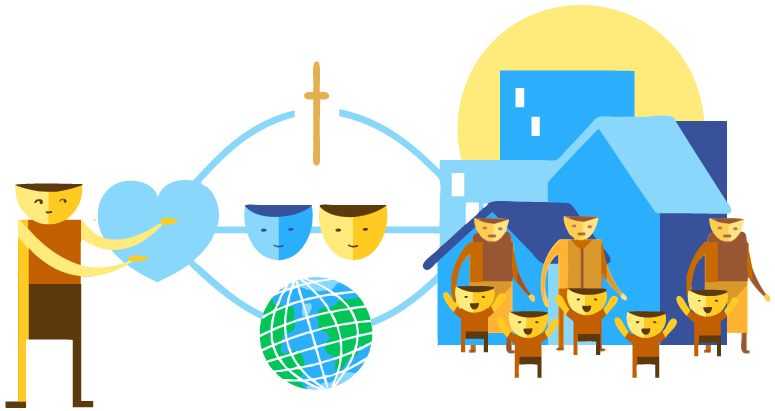
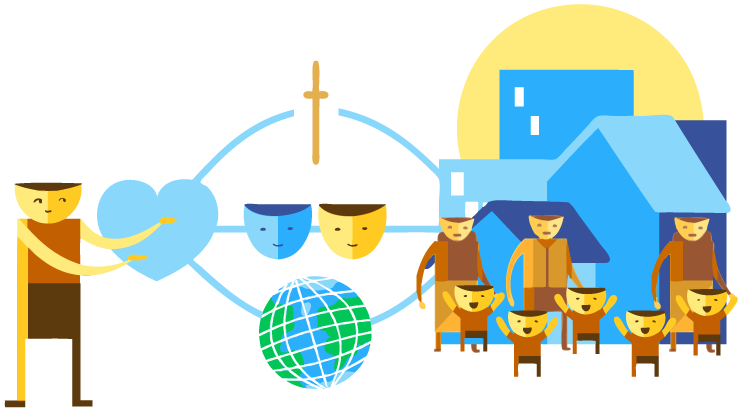
replaced how it works graphics and added quotes for evergreen

diff --git a/act_evergreen-homepage-uncookied.html b/act_evergreen-homepage-uncookied.html
@@ -334,17 +334,17 @@
 				<span></span>
 			</div>
 			<ul data-orbit>
-				<li data-orbit-slide="quote-1">
+				<li data-orbit-slide="quote-1">			
 					<p><span class="quote-mark">"</span>I began sponsoring through Compassion 21 years ago and have since sponsored 19 outstanding girls and boys in 8 different countries. I have seen four of them graduate and three went on to college!<span class="quote-mark">"</pan></p>
 					<p>- Gary, Greely CO</p>
 				</li>
 				<li data-orbit-slide="quote-2">
-					<p><span class="quote-mark">"</span>I began sponsoring through Compassion 21 years ago and have since sponsored 19 outstanding girls and boys in 8 different countries. I have seen four of them graduate and three went on to college!<span class="quote-mark">"</pan></p>
-					<p>- Gary, Greely CO</p>
+					<p><span class="quote-mark">"</span>My husband and I attended a concert when we saw a beautiful little face with hands on her hips. I started crying and I told my husband that this is the child that GOD wanted us to sponsor. Her name is Fernanda from Bolivia. She is my angel and I love her like she is my daughter.<span class="quote-mark">"</pan></p>
+					<p>- Hope, Buhl AL</p>
 				</li>
 				<li data-orbit-slide="quote-3">
-					<p><span class="quote-mark">"</span>I began sponsoring through Compassion 21 years ago and have since sponsored 19 outstanding girls and boys in 8 different countries. I have seen four of them graduate and three went on to college!<span class="quote-mark">"</pan></p>
-					<p>- Gary, Greely CO</p>
+					<p><span class="quote-mark">"</span>Our trip - intended to benefit our sponsored child, actually changed my life. Compassion does so much more than what I had realized. I was amazed by what I saw from every aspect. Compassion is the real deal!<span class="quote-mark">"</pan></p>
+					<p>- Michael, Buckely WA</p>
 				</li>
 			</ul>
 

diff --git a/act_evergreen-homepage.html b/act_evergreen-homepage.html
@@ -340,12 +340,12 @@
 					<p>- Gary, Greely CO</p>
 				</li>
 				<li data-orbit-slide="quote-2">
-					<p><span class="quote-mark">"</span>I began sponsoring through Compassion 21 years ago and have since sponsored 19 outstanding girls and boys in 8 different countries. I have seen four of them graduate and three went on to college!<span class="quote-mark">"</pan></p>
-					<p>- Gary, Greely CO</p>
+					<p><span class="quote-mark">"</span>My husband and I attended a concert when we saw a beautiful little face with hands on her hips. I started crying and I told my husband that this is the child that GOD wanted us to sponsor. Her name is Fernanda from Bolivia. She is my angel and I love her like she is my daughter.<span class="quote-mark">"</pan></p>
+					<p>- Hope, Buhl AL</p>
 				</li>
 				<li data-orbit-slide="quote-3">
-					<p><span class="quote-mark">"</span>I began sponsoring through Compassion 21 years ago and have since sponsored 19 outstanding girls and boys in 8 different countries. I have seen four of them graduate and three went on to college!<span class="quote-mark">"</pan></p>
-					<p>- Gary, Greely CO</p>
+					<p><span class="quote-mark">"</span>Our trip - intended to benefit our sponsored child, actually changed my life. Compassion does so much more than what I had realized. I was amazed by what I saw from every aspect. Compassion is the real deal!<span class="quote-mark">"</pan></p>
+					<p>- Michael, Buckely WA</p>
 				</li>
 			</ul>
 

diff --git a/act_evergreen-story-template.html b/act_evergreen-story-template.html
@@ -73,7 +73,7 @@
 
 			<ul class="buttons-2">
 				<li><a class="button-solid-sky-blue" href="">Start a campaign</a></li>
-				<li><a class="button-solid-yellow">Donate</a></li>
+				<li><a class="button-solid-yellow">Make a donation</a></li>
 			</ul>
 		</div>
 	</div>
